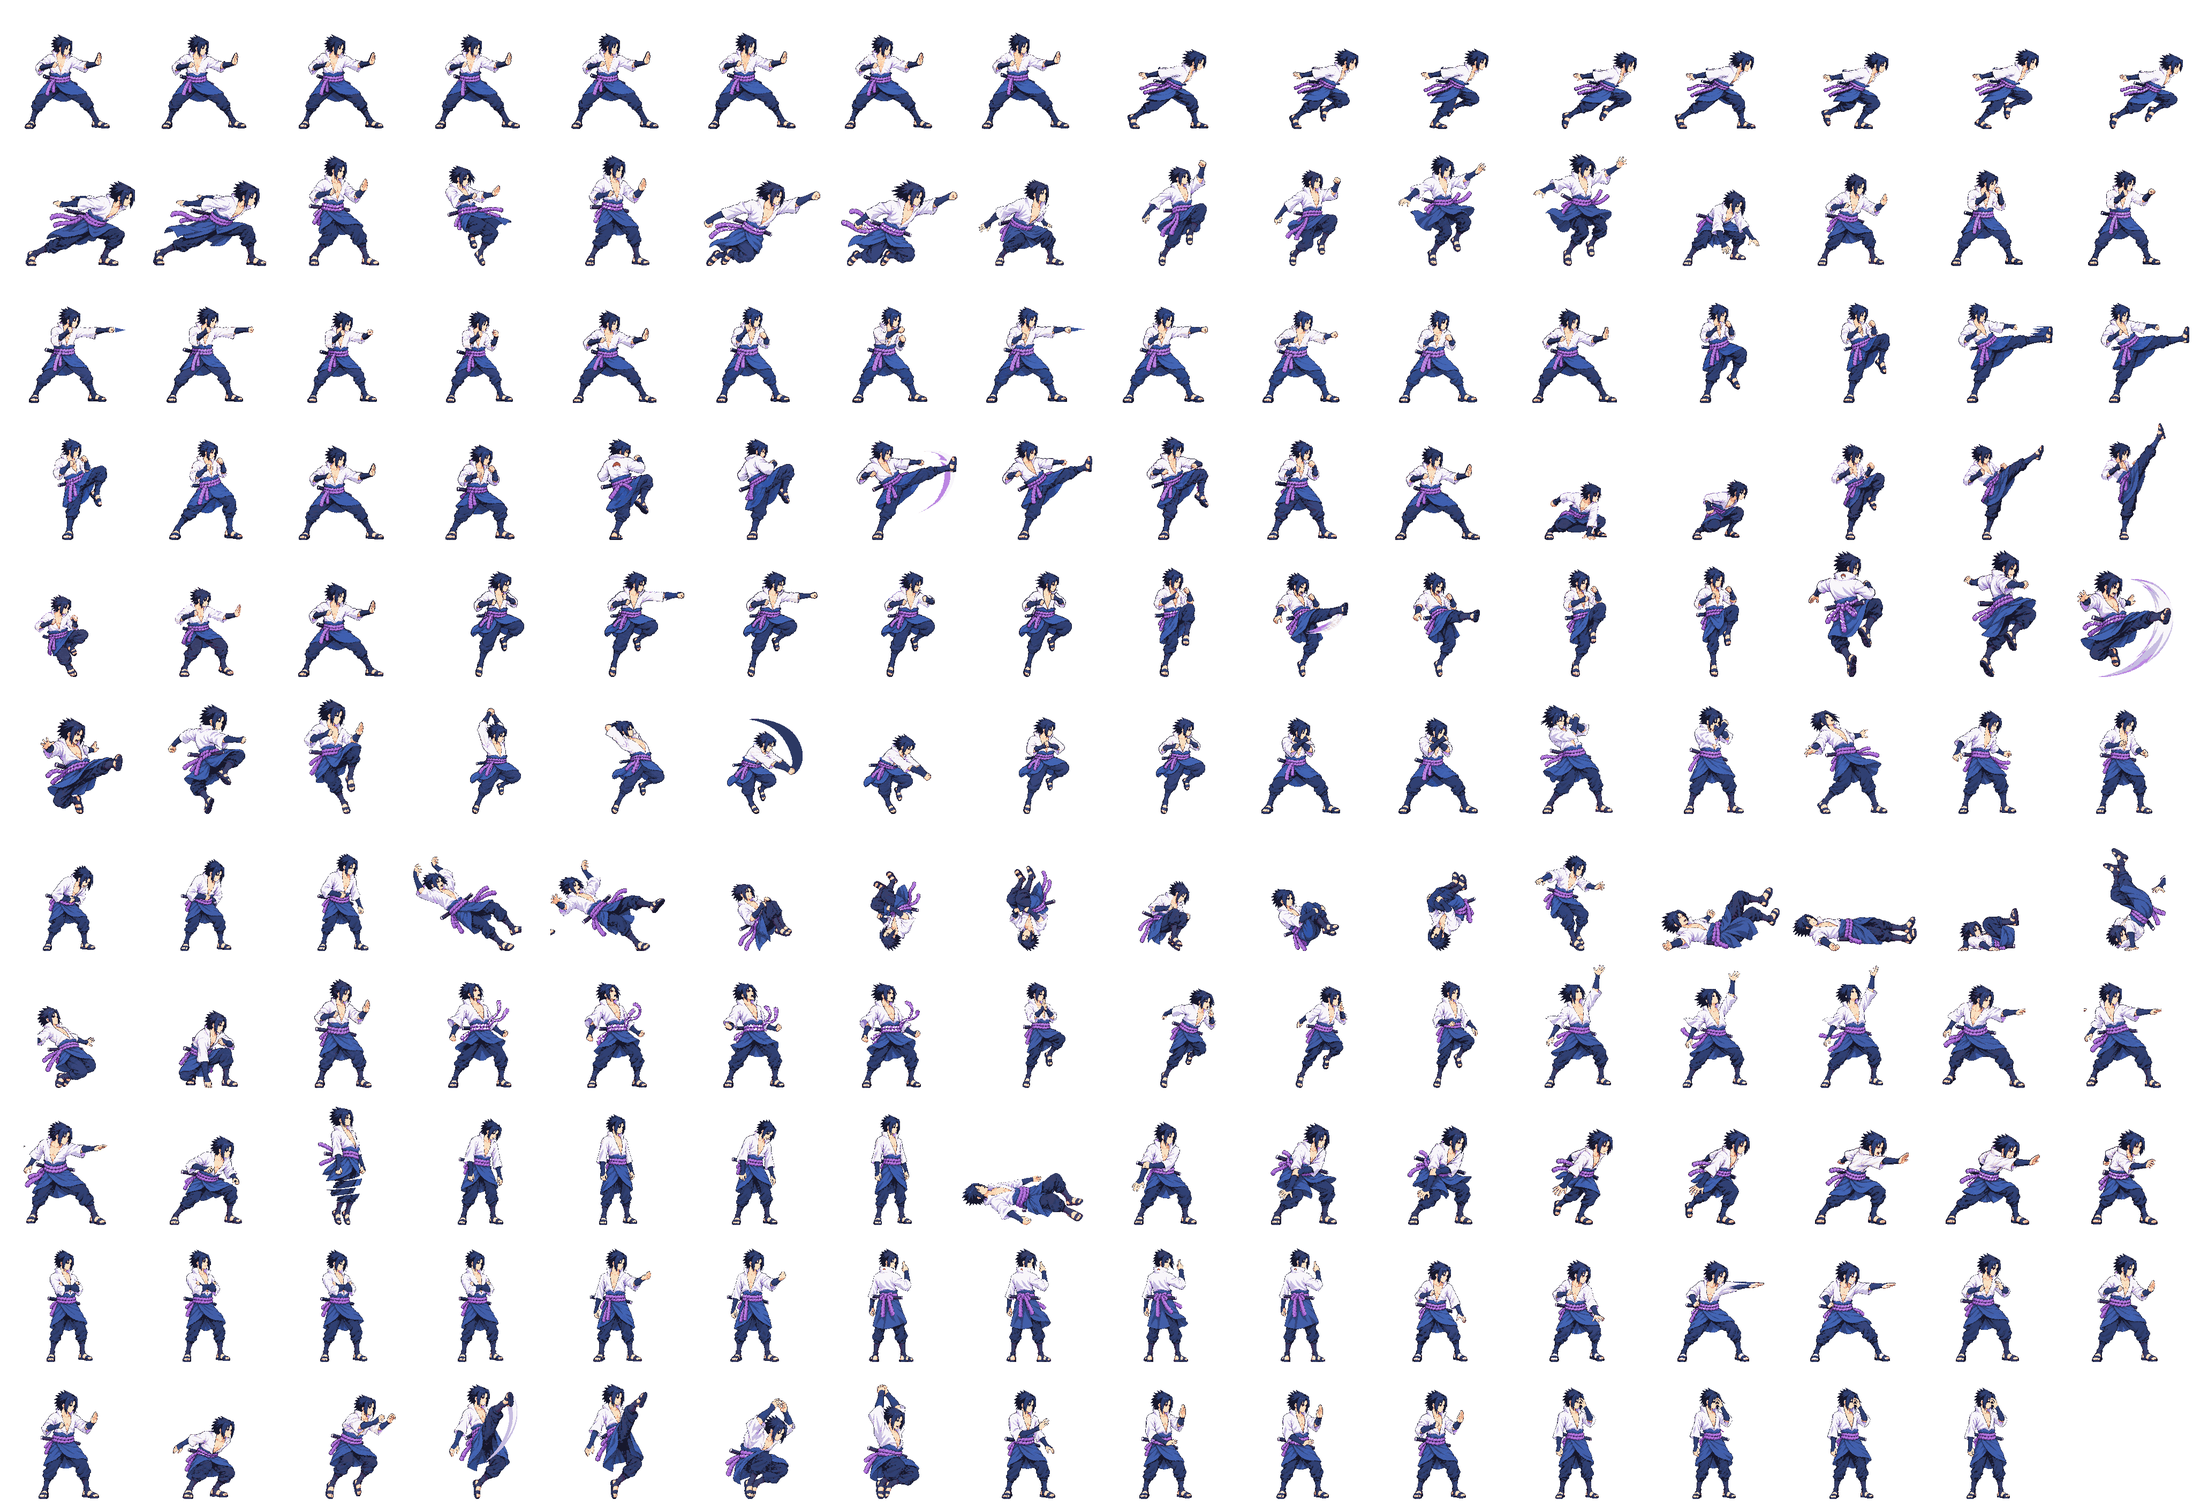
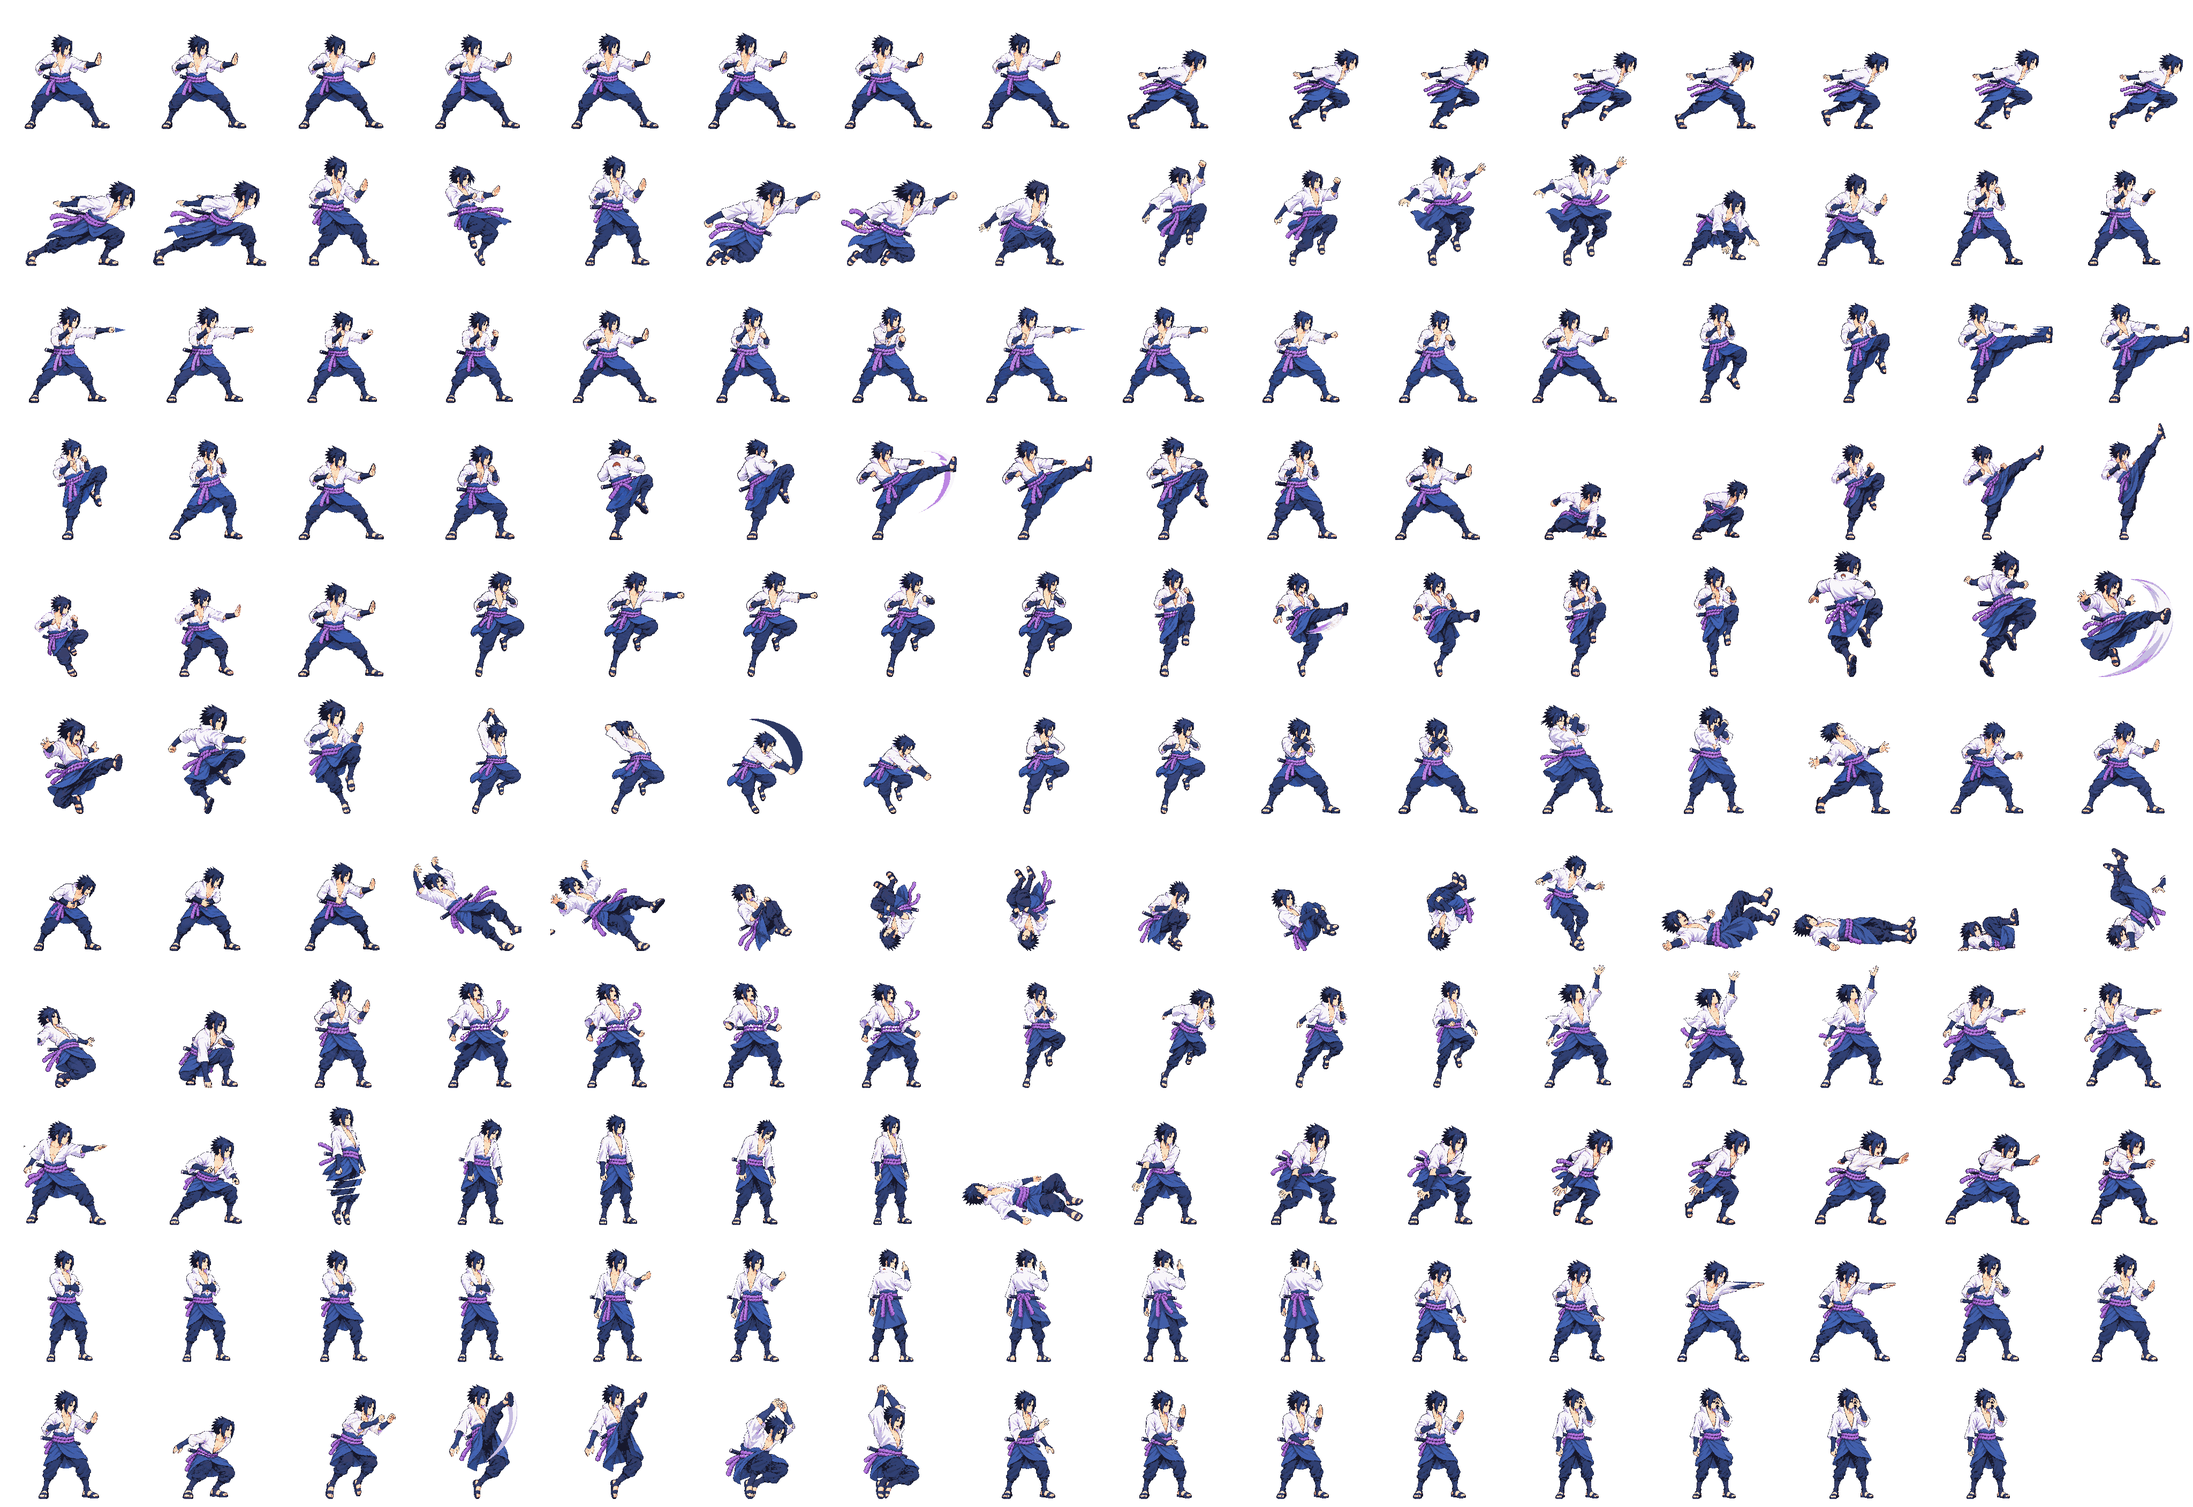
art(sasuke): add title-style hurt reactions and archive launched rejects

Changed region(s): [[0.8125, 0.4688, 1.0, 0.5312], [0.0, 0.5625, 0.1875, 0.625]]

diff --git a/art/TRACKER.md b/art/TRACKER.md
@@ -146,8 +146,8 @@ Sprite Lab; if his hair adds clearly less height and his head comes out bigger, 
 | 5 | airLight1 | 5 | 1/2/2 | **yes** | 198 | approved | v04 | v01 | Title-style v04 candidate: measured active-fist offset corrected v03 4 px clip; 48-color new-strip gate and five actual atlas frames pass. Old v01 remains approved pending full-set final review. |
 | 5 | airHeavy | 6 | 2/2/2 | **yes** | 198 | approved | v04 | v02 | Title-style v04 candidate: measured B stitch, six actual atlas frames and manual head/torso comparison. f0/f1 head-mask exemption is version-only and manual, not numeric pass; old v02 remains approved pending full-set final review. |
 | 6 | guard | 2 | - | **yes** | 180 | approved | v04 | v01 | Title-style v04 candidate, needs final batch review; v03 rejected for real frame pop. v04 crossed arms confuse the hair probe; version-owned manual exemption is documented in QA, not counted as a numeric pass. Old v01 remains approved. |
-| 6 | hurtHigh | 3 | - | **yes** | 195 | approved | v02 | v02 | User approved the final batch 2026-10-10 (chat with Claude, PR #9). |
-| 6 | launched | 2 | - | **yes** | 136 | approved | v01 | v01 | User approved the final batch 2026-10-10 (chat with Claude, PR #9). |
+| 6 | hurtHigh | 3 | - | **yes** | 174 | approved | v05 | v02 | Title-style v05 candidate: measured head fit from 195 to 174 px target, strict new-strip 48-color gate passes; actual packed three-frame QA shows a consistent head, torso and grounded recovery. Old v02 remains approved pending full-set review. |
+| 6 | launched | 2 | - | **yes** | 136 | approved | v05 | v01 | Title-style v03-v05 rejected after three imagegen attempts: first two too horizontal, v05 closer to arched pose but open-eyed/calm and one-scale anatomy unproven under the low-confidence gate. No exemption; old approved v01 remains packed. |
 | 6 | down | 2 | - | **yes** | 96 | approved | v05 | v01 | Title-style v04/v05 preserved original slam and straight-leg down poses but were rejected after three imagegen attempts: clip, low-confidence anatomy and lying contact warnings. Original approved v01 remains packed; technical redraw guidance needed. [QA](characters/sasuke/production/title-style/QA.md). |
 | 6 | getup | 5 | - | **yes** | 204 | approved | v01 | v01 | User approved the final batch 2026-10-10 (chat with Claude, PR #9). |
 | 7 | charge | 4 | - | **yes** | 198 | approved | v04 | v02 | User rejected new charge; approved v02 active. v03/v04 archived; v04 is historical newest, not active. |
@@ -165,7 +165,7 @@ Sprite Lab; if his hair adds clearly less height and his head comes out bigger, 
 | 9 | airLight2 | 5 | 1/2/2 | no | 207 | approved | v02 | v02 | User approved the final batch 2026-10-10 (chat with Claude, PR #9). |
 | 9 | airLight3 | 6 | 2/2/2 | no | 201 | approved | v01 | v01 | User approved the final batch 2026-10-10 (chat with Claude, PR #9). |
 | 9 | block | 2 | - | no | 204 | approved | v01 | v01 | User approved the final batch 2026-10-10 (chat with Claude, PR #9). |
-| 9 | hurtLow | 3 | - | no | 183 | approved | v01 | v01 | User approved the final batch 2026-10-10 (chat with Claude, PR #9). |
+| 9 | hurtLow | 3 | - | no | 166 | approved | v03 | v01 | Title-style v03 candidate: measured head fit from 183 to 166 px target, strict new-strip 48-color gate passes; actual packed three-frame QA shows bent abdomen reaction and a matching rising stance. Old v01 remains approved pending full-set review. |
 | 9 | spin | 4 | - | no | 160 | approved | v01 | v01 | User approved the final batch 2026-10-10 (chat with Claude, PR #9). |
 | 9 | airRecover | 3 | - | no | 180 | approved | v01 | v01 | User approved the final batch 2026-10-10 (chat with Claude, PR #9). |
 | 9 | throw | 4 | 1/1/2 | no | 201 | approved | v01 | v01 | User approved the final batch 2026-10-10 (chat with Claude, PR #9). |

diff --git a/art/REVIEW.md b/art/REVIEW.md
@@ -53,6 +53,11 @@ Status values: `needs review` · `approved` · `rejected`.
 
 | date | character | asset | file | version | status | what changed | QA notes |
 |---|---|---|---|---|---|---|---|
+| 2026-10-11 | sasuke | launched | [launched_v05.png](characters/sasuke/raw/_rejected/launched_v05.png) | v05 | rejected | Third imagegen attempt bends the knees for a more compact diagonal recoil. | [Diagnostic atlas](characters/sasuke/production/title-style/packed-launched-diag-v05.png) still shows calm, open eyes instead of the canonical squeezed-shut hit face; low-confidence one-scale anatomy cannot be certified. No production exemption; old approved v01 remains packed. [QA](characters/sasuke/production/title-style/QA.md). |
+| 2026-10-11 | sasuke | launched | [launched_v04.png](characters/sasuke/raw/_rejected/launched_v04.png) | v04 | rejected | Frame-offset patch of v03 source to correct left clipping. | Measured +45/+24 px offsets removed clipping, but [diagnostic packed cells](characters/sasuke/production/title-style/packed-launched-v04-qa.png) remain too horizontal and small. No production exemption. |
+| 2026-10-11 | sasuke | launched | [launched_v03.png](characters/sasuke/raw/_rejected/launched_v03.png) | v03 | rejected | First title-style airborne recoil. | Too horizontal for canonical arched diagonal pose; head/body gate low confidence, and f0/f1 clipped 42/21 px left. |
+| 2026-10-11 | sasuke | hurtHigh | [hurtHigh_v05.png](characters/sasuke/raw/hurtHigh_v05.png) | v05 | needs review | Title-style three-frame high hit reaction returning to open-palm guard. | Measured body-height fit 174 px, 48-color new-strip gate passes without clipping or exemption. [Actual packed cells](characters/sasuke/production/title-style/packed-hurtHigh-v05.png) retain head/torso build and y240 soles. [Heads sheet](scale/heads-sasuke.png) · [QA](characters/sasuke/production/title-style/QA.md). Full-set review pending. |
+| 2026-10-11 | sasuke | hurtLow | [hurtLow_v03.png](characters/sasuke/raw/hurtLow_v03.png) | v03 | needs review | Title-style three-frame low hit reaction rising from abdomen clutch. | Measured body-height fit 166 px, 48-color new-strip gate passes without clipping or exemption. [Actual packed cells](characters/sasuke/production/title-style/packed-hurtLow-v03.png) retain head/torso build and y240 soles. [Heads sheet](scale/heads-sasuke.png) · [QA](characters/sasuke/production/title-style/QA.md). Full-set review pending. |
 | 2026-10-11 | sasuke | down | [down_v05.png](characters/sasuke/raw/_rejected/down_v05.png) | v05 | rejected | New title-style redraw preserving original lifted-leg slam and final straight-leg supine pose. | Technical reject after third imagegen attempt: f1 right clip 13 px; low-confidence anatomy at x0.186 source scale and lying floor-contact warning (18% within 6 px, worst fifth 8 px high). Candidate gate did not write an atlas. Original approved down remains packed. [QA](characters/sasuke/production/title-style/QA.md). |
 | 2026-10-11 | sasuke | ko | [ko_v05.png](characters/sasuke/raw/_rejected/ko_v05.png) | v05 | rejected | New title-style redraw preserving original supine bent-knees KO pose. | Technical reject after third imagegen attempt: low-confidence anatomy at x0.132 source scale and lying floor-contact warning (32% within 6 px, worst fifth 8 px high). Candidate gate did not write an atlas. Original approved KO remains packed. [QA](characters/sasuke/production/title-style/QA.md). |
 | 2026-10-11 | sasuke | down | [down_v04.png](characters/sasuke/raw/_rejected/down_v04.png) | v04 | rejected | First new-style redraw preserving original down pose sequence. | Technical reject: f1 right clip 10 px, low-confidence anatomy and lying floor-contact warning. Candidate gate did not write an atlas. [QA](characters/sasuke/production/title-style/QA.md). |

diff --git a/art/characters/sasuke/production/title-style/QA.md b/art/characters/sasuke/production/title-style/QA.md
@@ -78,6 +78,11 @@ User-approved source: `reference/title_style_draft_v01.png`, plus the 256 px neu
 - Neither v05 candidate passed a writing pack. `node tools/pack-sprites.mjs sasuke --quantize 48` reported down f1 clipping 13 px right; down source scale x0.186 and KO x0.132 under existing bodyHeight 96/64. Both are low-confidence head/body probes requiring independent one-scale proof, which is not available from these enlarged horizontal source poses. The lying-floor warnings remain: down f1 18% of body within 6 px of y240, worst fifth 8 px above; KO 32% within 6 px, worst fifth 8 px above. The older v04 pack similarly failed (down f1 clip 10 px and floor warnings). We have **not** filed a manual scale pass or exemption for these assets.
 - Both v04/v05 versions are technical rejects in REVIEW.md. Their files were moved to `_rejected/`, then a clean 48-color pack exited 0 and selected original approved `frames/down/` from raw v01 and `frames/ko/` from raw v02. These old assets remain visually outside the title-style redraw. A source pose with closer side-on floor geometry and compact width at preserved skull scale, or Claude-approved spec/tool guidance, is needed before they can be called complete.
 
+## High and low hurt reactions; launched blocker
+
+- `hurtHigh_v05.png` and `hurtLow_v03.png` use measured body-height corrections after the initial candidate gate read the heads at 1.12× and 1.10× idle respectively: 195/1.12=174, 183/1.10=166. Both new-strip 48-color gates then pass without clipping or exemptions. [Actual atlas high-hurt cells](packed-hurtHigh-v05.png) occupy 152×171, 136×173 and 155×174 px; [low-hurt cells](packed-hurtLow-v03.png) occupy 126×143, 132×158 and 140×166 px. The head and torso do not visibly pop while the poses rise toward the approved open-palm guard, and soles are at y240. These are provisional final-set candidates, not user-approved images.
+- `launched_v03.png` was too horizontal and the automated gate required low-confidence independent anatomy review. v04 preserved generated pixels and applied measured +45/+24 px frame offsets to remove left clipping; a temporary **diagnostic-only** manifest extracted [actual atlas QA](packed-launched-v04-qa.png). Its skull/body read too small and the pose remained too horizontal. The second imagegen attempt also stayed horizontal. The third attempt, v05, [diagnostic atlas QA](packed-launched-diag-v05.png), has a more compact bent-knee recoil but open eyes/calm expression instead of the canonical squeezed-shut hit face; the independent one-scale proof remains inconclusive. All v03-v05 are archived technical/visual rejects; no production `scaleManualQA` or exemption was filed. The original approved v01 packs. This animation needs a new round after revising the pose reference or technical brief.
+
 ## Remaining checks
 
 The escalated local Vite adapter served port 5222. The in-app browser showed two Sasuke fighters at the same game depth with the new idle, matched apparent height and grounded feet. The console logged `[sprites] using custom sheet for sasuke (42 animations)` and no errors. The production build passed (80 modules) and the adapter's HTTP self-check returned four 200 responses. Full production, full-character strict scale, contact/hurtbox validation, user image approval, integration and deployment remain open.

diff --git a/docs/TASKS.md b/docs/TASKS.md
@@ -20,7 +20,7 @@ The single list of work in flight, shared by the user, Claude and Codex. The pro
 
 ## Milestone M2: training, input, hit accuracy (v0.3.0)
 
-**ART-SAS-TITLE-20261011**, Codex, in-progress. files: art/characters/sasuke/, art/manifest.json, art/TRACKER.md, art/REVIEW.md, art/scale/heads-sasuke.png, public/characters/sasuke/, docs/TASKS.md, CHANGELOG.md. User approved title-style draft and scaled pilot, authorized all 42 animations plus 3 UI without intermediate image gates. Branch `art/sasuke-title-production`, real sparse worktree and draft PR #71 with committed WIP preview. Idle v07, guard v04, run v05, light1 v09, light2 v07, light3 v08, light4 v08, heavy v10, airLight1 v04 and airHeavy v04 have native QA; attack endpoints use measured generated idle f0 source for the approved open-palm recovery stance. AirHeavy v04 head-mask exemption is manual and version-only. Down/KO new-style v04/v05 kept original pose layouts but failed clip/floor/scale checks after three imagegen attempts; these are archived and originals still pack, pending technical redraw guidance. Earlier attack candidates remain archived with reasons in REVIEW.md. Live equal-depth idle/custom-sheet load passed. Full batch, user final review and Claude integration remain open.
+**ART-SAS-TITLE-20261011**, Codex, in-progress. files: art/characters/sasuke/, art/manifest.json, art/TRACKER.md, art/REVIEW.md, art/scale/heads-sasuke.png, public/characters/sasuke/, docs/TASKS.md, CHANGELOG.md. User approved title-style draft and scaled pilot, authorized all 42 animations plus 3 UI without intermediate image gates. Branch `art/sasuke-title-production`, real sparse worktree and draft PR #71 with committed WIP preview. Idle v07, guard v04, run v05, light1 v09, light2 v07, light3 v08, light4 v08, heavy v10, airLight1 v04, airHeavy v04, hurtHigh v05 and hurtLow v03 have native QA; attack endpoints use measured generated idle f0 source for the approved open-palm recovery stance. AirHeavy v04 head-mask exemption is manual and version-only. Down/KO new-style v04/v05 kept original pose layouts but failed clip/floor/scale checks after three imagegen attempts; launched v03-v05 failed pose/scale proof after three attempts; all archived, originals still pack pending redraw guidance. Earlier attack candidates remain archived with reasons in REVIEW.md. Live equal-depth idle/custom-sheet load passed. Full batch, user final review and Claude integration remain open.
 
 Cast proportion review: **ART-CAST-SAMPLES**, Codex, review. User requested a quick sample checkpoint before the full frame audit. Branch `art/cast-scale-samples` compares production-matched sprites, Naruto guard/block/spot-dodge head crops, and approved turnarounds. No art approvals or gameplay changes. Full audit paused for user feedback; Claude owns integration.
 

diff --git a/CHANGELOG.md b/CHANGELOG.md
@@ -10,6 +10,7 @@ Every change adds a line under **Unreleased** in the right group: Added, Changed
 Fixed, Security. Reference task ids and ADRs where useful.
 
 ## [Unreleased]
+- art(sasuke): add title-style high/low hurt reactions with measured head-fit heights and actual 48-color atlas QA; archive three failed launched candidates without a scale exemption.
 
 - art(sasuke): preserve original down/KO pose layouts in new-style attempts v04/v05, archive technical rejects after clip, floor-contact and uncertain-scale checks; keep original approved poses active pending redraw guidance.
 
